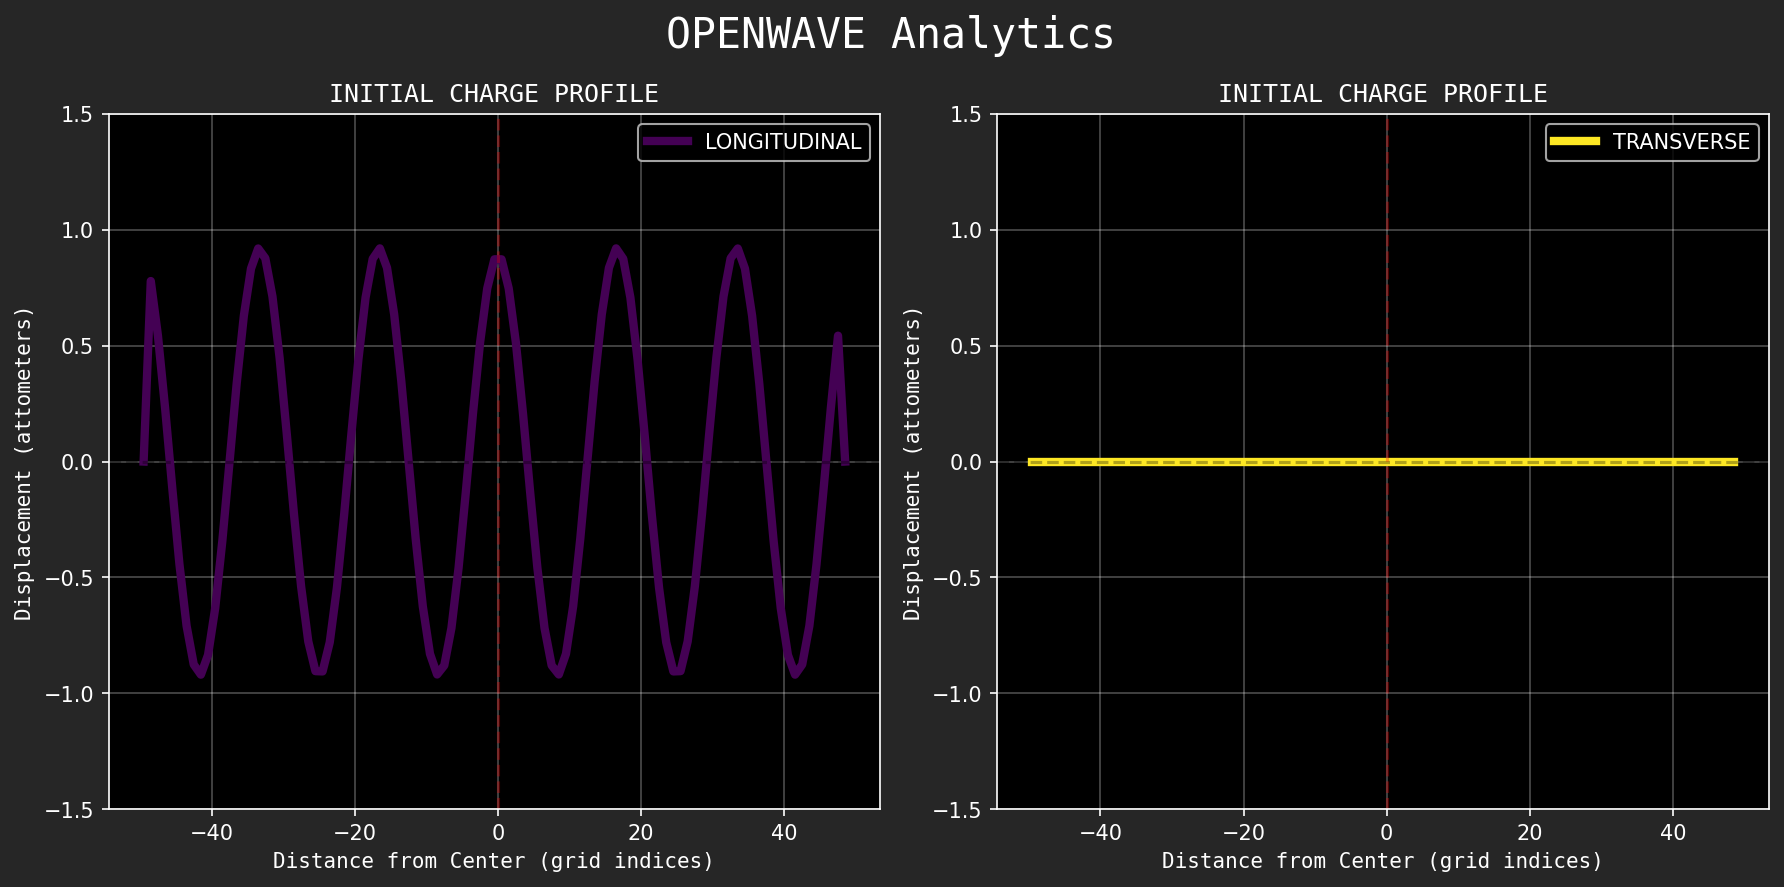
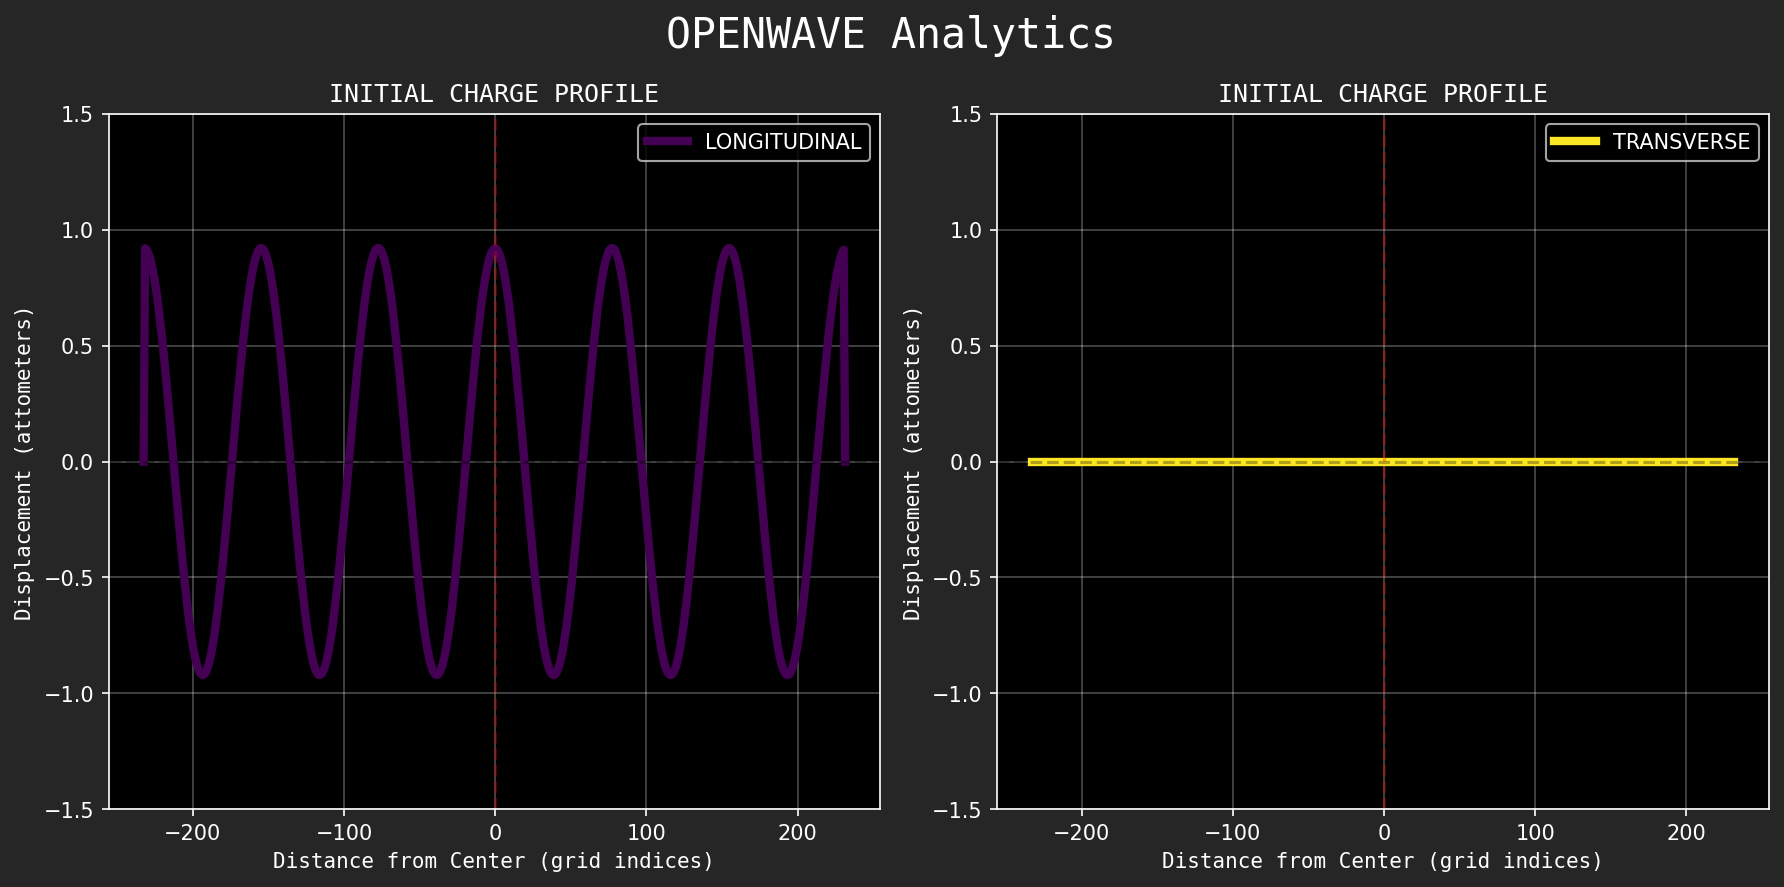
Enable all charge functions in L1_launcher.py
Uncommented calls to ewave.charge_falloff and ewave.charge_full in initialize_xperiment, allowing all charge functions to execute for flux mesh visualization. Also updated displacement_profile.png.

diff --git a/openwave/xperiments/5_level1_wave_field/L1_launcher.py b/openwave/xperiments/5_level1_wave_field/L1_launcher.py
@@ -360,8 +360,8 @@ def initialize_xperiment(state):
     # Initialize test displacement pattern for flux mesh visualization
     # TODO: remove multiple charge post-propagation implementation
     ewave.charge_1lambda(state.wave_field, state.SLO_MO, state.FREQ_BOOST, state.dt_safe)
-    # ewave.charge_falloff(state.wave_field, state.SLO_MO, state.FREQ_BOOST, state.dt_safe)
-    # ewave.charge_full(state.wave_field, state.SLO_MO, state.FREQ_BOOST, state.dt_safe)
+    ewave.charge_falloff(state.wave_field, state.SLO_MO, state.FREQ_BOOST, state.dt_safe)
+    ewave.charge_full(state.wave_field, state.SLO_MO, state.FREQ_BOOST, state.dt_safe)
     # TODO: code toggle to plot initial displacement profile
     ewave.plot_charge_profile(state.wave_field)
 
